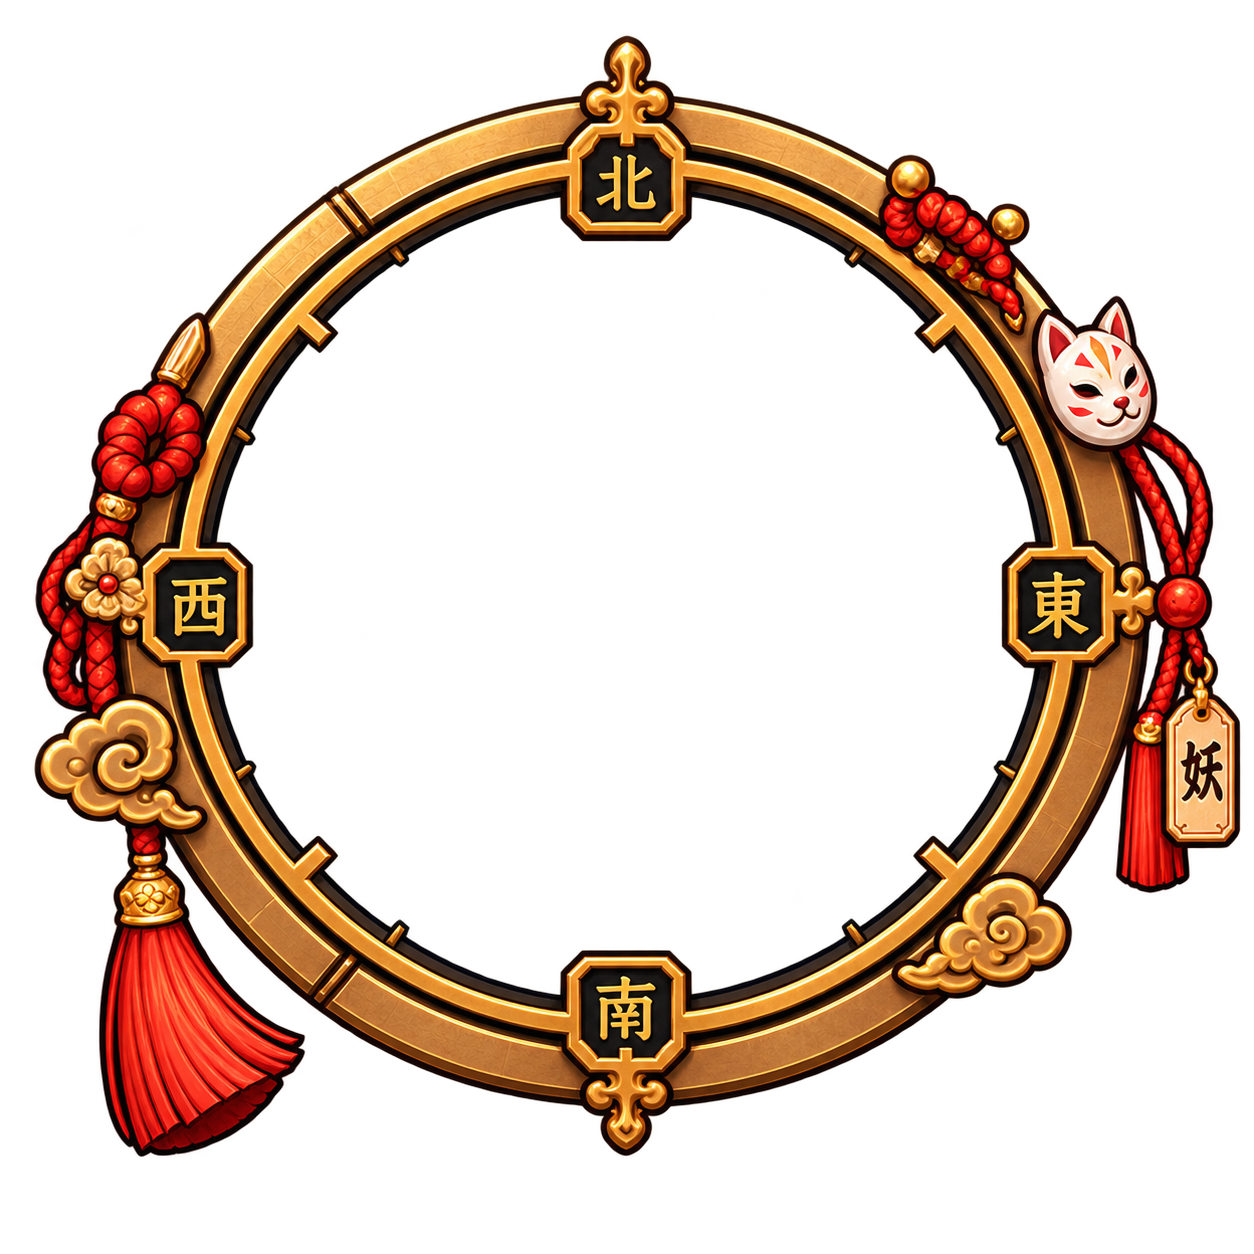
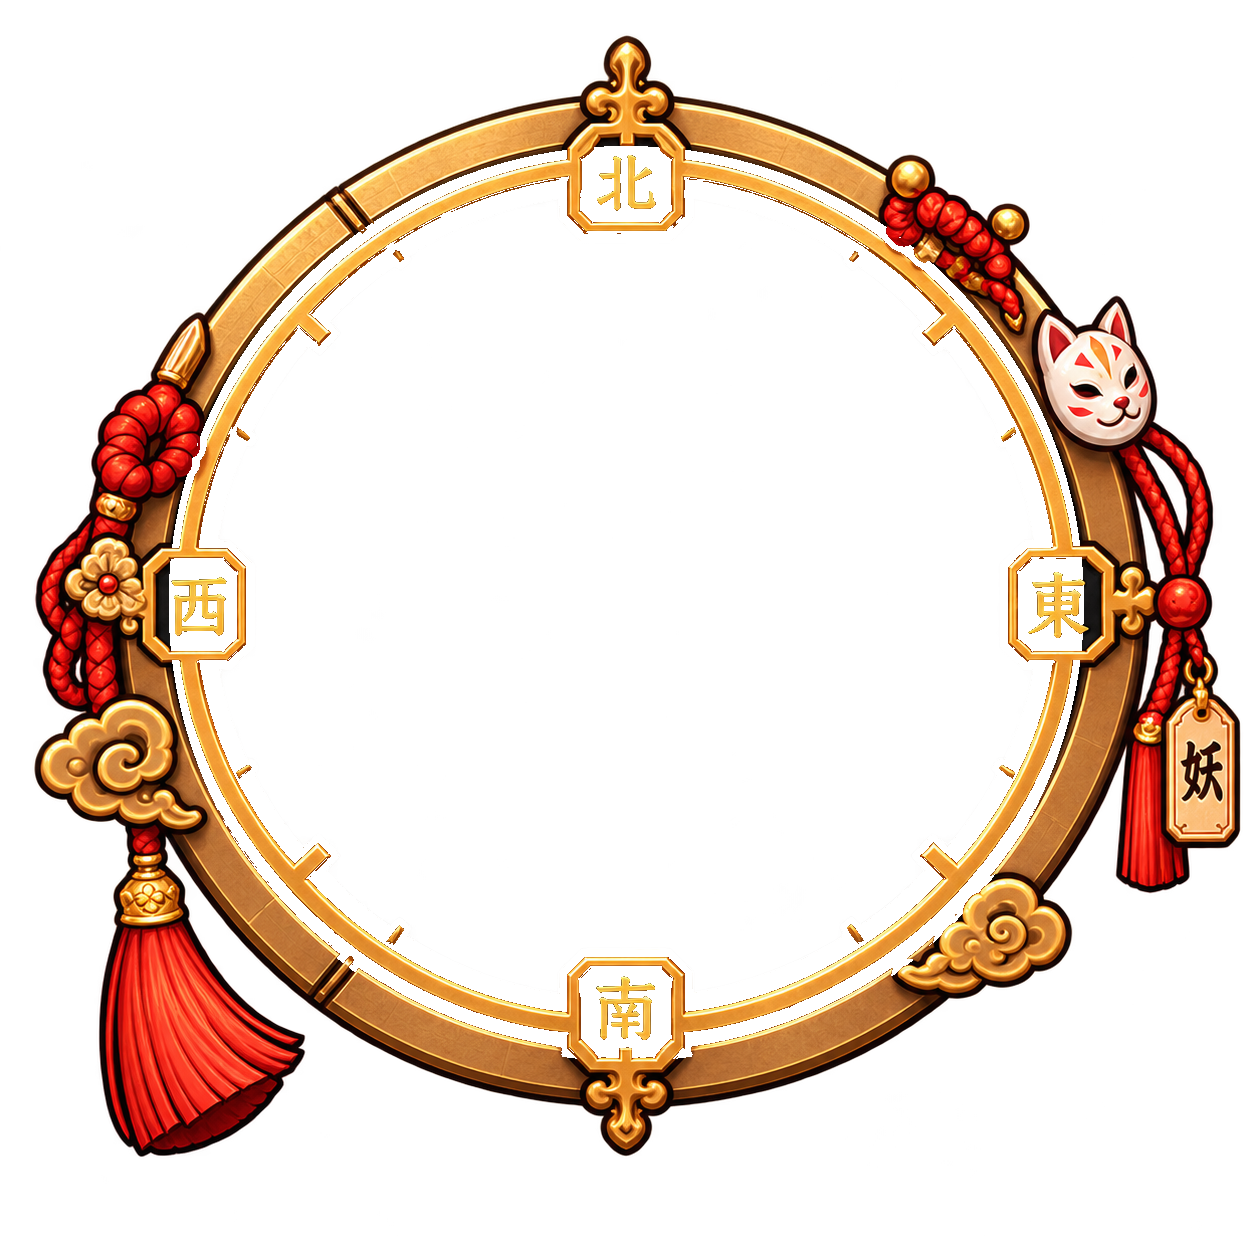
fix: refine diegetic radar moon and aperture

Changed region(s): [[0.1244, 0.0933, 0.8708, 0.8397]]

diff --git a/js/ui.js b/js/ui.js
@@ -508,7 +508,9 @@ window.UI = (() => {
     const end = start + span;
     const angle = start + span * p;
     // 時間標記掛在羅盤外緣，不進入雷達資料區；玩家看到它會理解為時序，而非目標點。
-    const ringR = size * 0.465;
+    // 軌道再外移，讓月亮/太陽完全脫離雷達資料區與黃銅內框；
+    // 標記可以略微超出圖片邊界，但仍緊貼整顆羅盤的視覺輪廓。
+    const ringR = size * 0.56;
     const danger = clamp((p - 0.78) / 0.22, 0, 1);
     const dangerPulse = 0.5 + Math.sin(time * 5.4) * 0.5;
     const trackColor = danger > 0.7 ? "#ff5d45" : danger > 0.18 ? "#ff9b52" : "#ffd36f";
@@ -526,9 +528,10 @@ window.UI = (() => {
     const mx = cx + Math.cos(angle) * ringR;
     const my = cy + Math.sin(angle) * ringR;
     const eased = p * p * (3 - 2 * p);
-    const markerR = size * (0.027 + eased * 0.006);
+    const markerR = size * (0.034 + eased * 0.006);
     const markerColor = danger > 0.55 ? "#ff714e" : eased > 0.5 ? "#ffb347" : "#d9e5ff";
-    glow(ctx, mx, my, size * (0.13 + eased * 0.06 + danger * dangerPulse * 0.04), markerColor, 0.66);
+    // 標記本體放大、光暈收斂，讓弦月輪廓比 bloom 更容易辨認。
+    glow(ctx, mx, my, size * (0.095 + eased * 0.05 + danger * dangerPulse * 0.04), markerColor, 0.44);
 
     const moonAlpha = clamp(1 - eased * 1.15, 0, 1);
     if (moonAlpha > 0.01) {
@@ -536,12 +539,16 @@ window.UI = (() => {
       ctx.fillStyle = "#e9efff";
       ctx.strokeStyle = "rgba(255,248,220,.92)";
       ctx.lineWidth = Math.max(1.1, size * 0.007);
+      // 用 even-odd 雙圓做真正的弦月；隨夜色推進稍微變厚，再交棒給日輪。
+      const wax = clamp(eased / 0.46, 0, 1);
+      const innerR = markerR * (0.91 - wax * 0.08);
+      const innerX = mx + markerR * (0.46 - wax * 0.16);
+      const innerY = my - markerR * 0.04;
       ctx.beginPath();
-      ctx.moveTo(mx + markerR * 0.15, my - markerR);
-      ctx.bezierCurveTo(mx - markerR * 0.95, my - markerR * 0.55, mx - markerR * 0.95, my + markerR * 0.62, mx + markerR * 0.12, my + markerR);
-      ctx.bezierCurveTo(mx - markerR * 0.18, my + markerR * 0.32, mx + markerR * 0.3, my - markerR * 0.36, mx + markerR * 0.15, my - markerR);
-      ctx.closePath();
-      ctx.fill(); ctx.stroke();
+      ctx.arc(mx, my, markerR, 0, 6.283);
+      ctx.arc(innerX, innerY, innerR, 0, 6.283);
+      ctx.fill("evenodd");
+      ctx.beginPath(); ctx.arc(mx, my, markerR, 0, 6.283); ctx.stroke();
     }
 
     const sunAlpha = clamp((eased - 0.22) / 0.78, 0, 1);
@@ -614,7 +621,8 @@ window.UI = (() => {
     // 素材透明洞實測中心約在 (49.9%, 48.1%)，不是圖片幾何正中央。
     // 依實際洞口對位，讓雷達內容向上約 2%，並稍微放大填滿內圈。
     const cx = x + size * 0.499, cy = y + size * 0.481;
-    const mapR = size * 0.292;
+    // 放大雷達底盤，讓它吃滿素材的中央透明洞；超出的部分仍會被外框自然遮住。
+    const mapR = size * 0.315;
     const k = (mapR - 7) / 1300;
     ctx.save();
     ctx.save();

diff --git a/index.html b/index.html
@@ -106,13 +106,13 @@
   <script src="js/config.js?v=20261005-space-rabbit"></script>
   <script src="js/viewport.js?v=20261005-space-rabbit"></script>
   <script src="js/controls.js?v=20261005-10"></script>
-  <script src="js/assets.js?v=20261006-hud2"></script>
+  <script src="js/assets.js?v=20261006-hud3"></script>
   <script src="js/audio.js?v=20261005-23"></script>
   <script src="js/haptics.js?v=20261006-1"></script>
   <script src="js/renderer.js?v=20261006-1"></script>
   <script src="js/fx.js?v=20261005-25"></script>
   <script src="js/skillfx.js?v=20261005-25"></script>
-  <script src="js/ui.js?v=20261006-diegetic8"></script>
+  <script src="js/ui.js?v=20261006-diegetic10"></script>
   <script src="js/overworld.js?v=20261006-1"></script>
   <script src="js/evolutions.js?v=20261005-25"></script>
   <script src="js/game.js?v=20261006-lantern1"></script>

diff --git a/js/assets.js b/js/assets.js
@@ -56,7 +56,7 @@ function loadHudRadarArt() {
   img.onerror = () => {
     console.warn("[Assets] HUD 雷達外框素材載入失敗，將使用程式繪製備援。");
   };
-  img.src = "assets/img/ui/hud_radar_frame.png";
+  img.src = "assets/img/ui/hud_radar_frame.png?v=20261006-radar2";
 }
 
 // 首頁只載入封面；進入旅路或遊戲才下載角色、敵人與場景。
